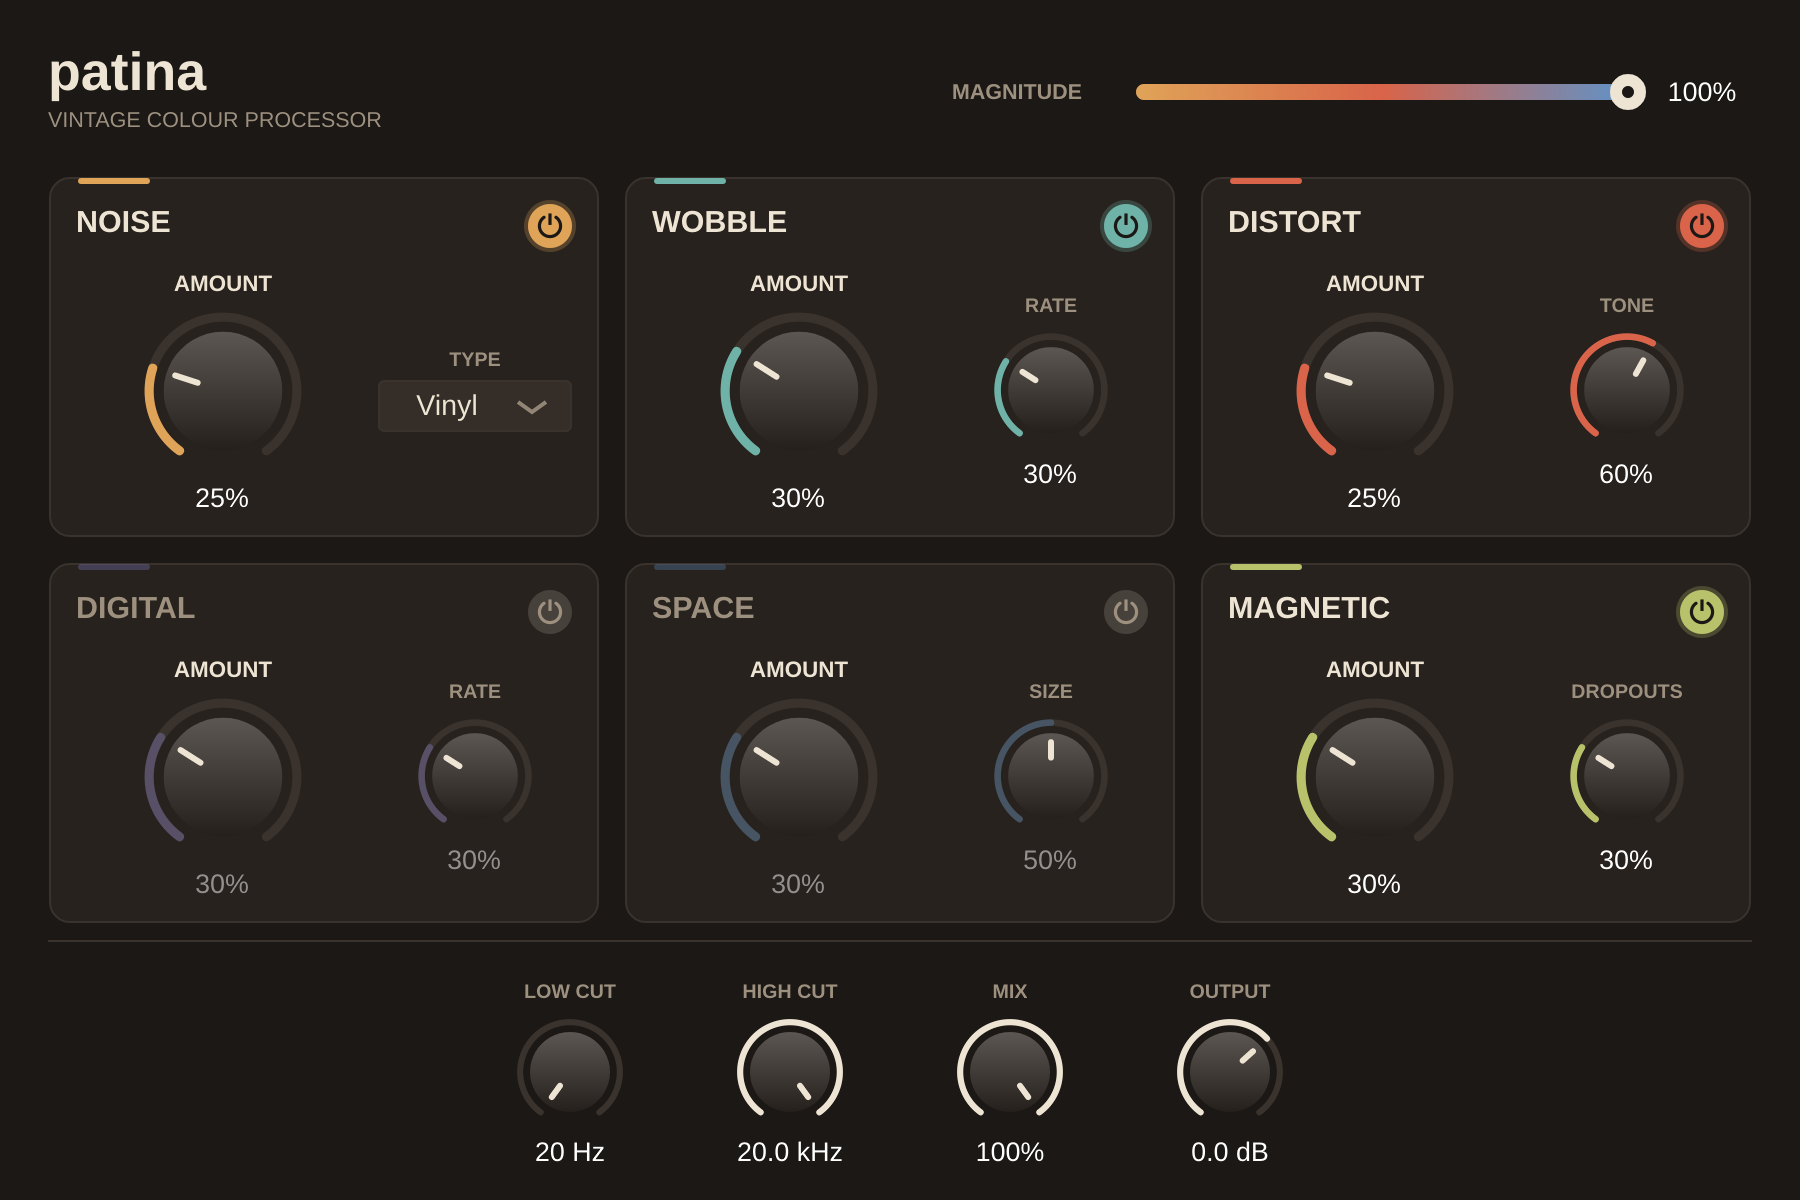
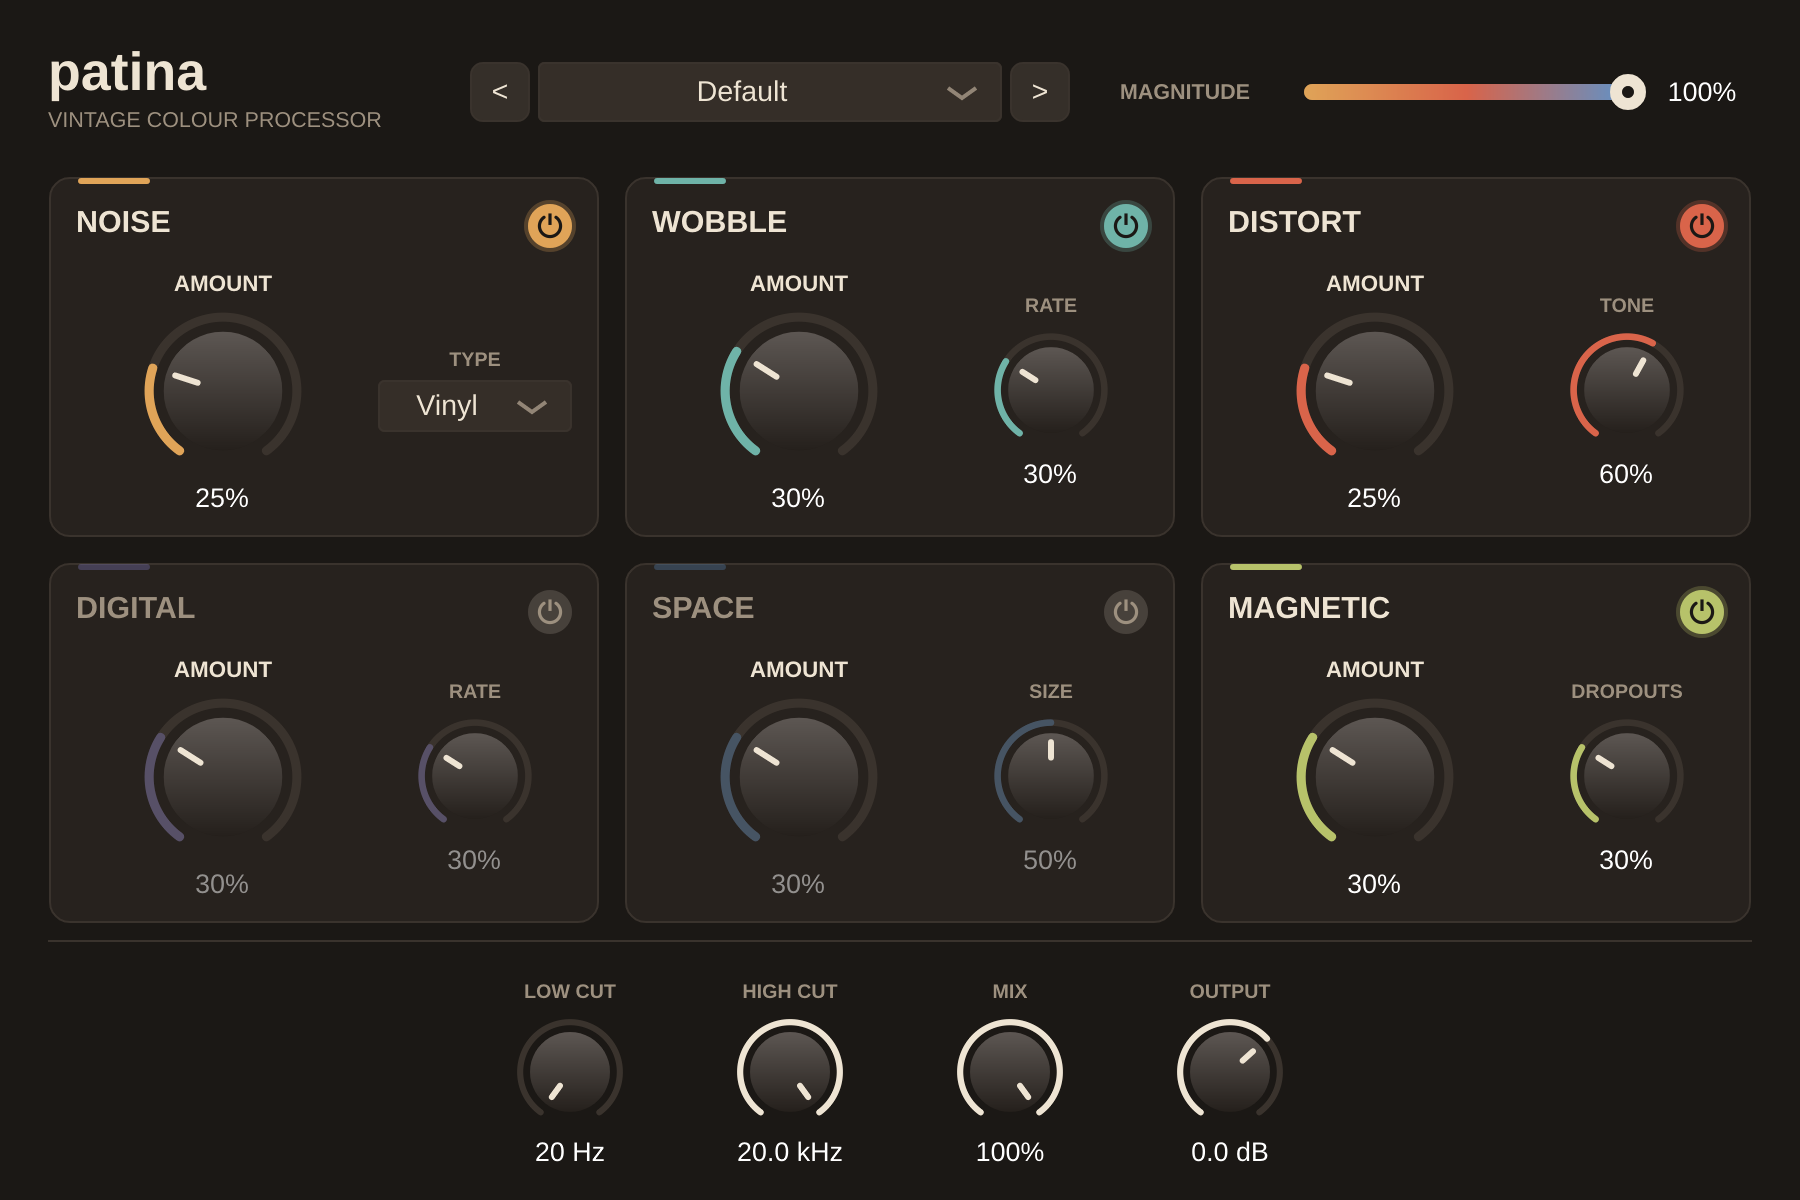
Add 30 level-matched factory presets with a preset browser
Presets are grouped into Basics, Tape, Vinyl, Digital, Radio, Ambient and
Grit, exposed to hosts as programs, and browsable from a new header combo
with prev/next buttons. The smoke test now renders every preset and checks
its loudness against the dry signal; output gains were set from that so all
presets sit within 0.2 dB of the input.

Claude-Session: https://claude.ai/code/session_01QYfq3nYLxLNsEYGTGBMD15

Changed region(s): [[0.2489, 0.0308, 0.8711, 0.1233]]

diff --git a/Source/Presets.h b/Source/Presets.h
@@ -1,0 +1,66 @@
+#pragma once
+
+// Factory presets. Each row is one complete snapshot of every parameter.
+// Noise type: 0 = Hiss, 1 = Vinyl, 2 = Hum. Amounts are 0..1, cuts in Hz, output in dB.
+// Output gains are level-matched to the dry signal (measured by Tests/SmokeTest.cpp).
+
+namespace patina
+{
+struct Stage { bool on; float amount; float extra; };
+
+struct Preset
+{
+    const char* name;
+    const char* category;
+    float magnitude;
+    bool noiseOn; float noiseAmt; int noiseType; float noiseTone;
+    Stage wobble;    // extra = rate
+    Stage distort;   // extra = tone
+    Stage digital;   // extra = rate
+    Stage space;     // extra = size
+    Stage magnetic;  // extra = dropouts
+    float lowCut, highCut, mix, outputDb;
+};
+
+constexpr bool on = true, off = false;
+constexpr int hiss = 0, vinyl = 1, hum = 2;
+
+// clang-format off
+inline const Preset factoryPresets[] =
+{
+//  name                    category     mag    noise                         wobble             distort            digital            space              magnetic           lowCut  highCut  mix   out
+    { "Default",            "Basics",    1.00f, on,  0.25f, vinyl, 0.50f, { on,  0.30f, 0.30f }, { on,  0.25f, 0.60f }, { off, 0.30f, 0.30f }, { off, 0.30f, 0.50f }, { on,  0.30f, 0.30f },   20.0f, 20000.0f, 1.00f,  -1.5f },
+    { "Subtle Color",       "Basics",    0.35f, on,  0.20f, hiss,  0.60f, { on,  0.20f, 0.30f }, { on,  0.30f, 0.70f }, { off, 0.00f, 0.00f }, { off, 0.00f, 0.50f }, { on,  0.40f, 0.10f },   20.0f, 20000.0f, 1.00f,  -0.5f },
+    { "Mix Bus Glow",       "Basics",    0.50f, on,  0.10f, hiss,  0.50f, { on,  0.08f, 0.30f }, { on,  0.20f, 0.75f }, { off, 0.00f, 0.00f }, { off, 0.00f, 0.50f }, { on,  0.35f, 0.00f },   20.0f, 20000.0f, 1.00f,  -1.0f },
+    { "Tape Glue",          "Tape",      1.00f, off, 0.00f, hiss,  0.50f, { on,  0.06f, 0.30f }, { on,  0.15f, 0.70f }, { off, 0.00f, 0.00f }, { off, 0.00f, 0.50f }, { on,  0.50f, 0.00f },   20.0f, 20000.0f, 1.00f,  -3.5f },
+    { "Warm Cassette",      "Tape",      1.00f, on,  0.30f, hiss,  0.55f, { on,  0.35f, 0.35f }, { on,  0.20f, 0.45f }, { off, 0.00f, 0.00f }, { off, 0.00f, 0.50f }, { on,  0.45f, 0.25f },   35.0f, 12000.0f, 1.00f,  -2.5f },
+    { "Worn Cassette",      "Tape",      1.00f, on,  0.45f, hiss,  0.45f, { on,  0.60f, 0.40f }, { on,  0.30f, 0.35f }, { off, 0.00f, 0.00f }, { off, 0.00f, 0.50f }, { on,  0.70f, 0.60f },   60.0f,  8000.0f, 1.00f,  -3.0f },
+    { "Broken Walkman",     "Tape",      1.00f, on,  0.50f, hiss,  0.40f, { on,  0.80f, 0.55f }, { on,  0.30f, 0.30f }, { off, 0.00f, 0.00f }, { off, 0.00f, 0.50f }, { on,  0.85f, 0.80f },   90.0f,  7000.0f, 1.00f,  -3.0f },
+    { "Lost VHS Tape",      "Tape",      1.00f, on,  0.40f, hiss,  0.35f, { on,  0.55f, 0.20f }, { on,  0.20f, 0.40f }, { off, 0.00f, 0.00f }, { off, 0.00f, 0.50f }, { on,  0.65f, 0.50f },   45.0f,  9000.0f, 1.00f,  -3.5f },
+    { "Dusty Crate",        "Vinyl",     1.00f, on,  0.35f, vinyl, 0.40f, { on,  0.20f, 0.20f }, { on,  0.20f, 0.50f }, { off, 0.00f, 0.00f }, { off, 0.00f, 0.50f }, { on,  0.20f, 0.15f },   40.0f, 11000.0f, 1.00f,  -1.0f },
+    { "Needle Drop",        "Vinyl",     1.00f, on,  0.50f, vinyl, 0.50f, { off, 0.00f, 0.30f }, { off, 0.00f, 0.50f }, { off, 0.00f, 0.00f }, { off, 0.00f, 0.50f }, { off, 0.00f, 0.00f },   20.0f, 20000.0f, 1.00f,  0.0f },
+    { "Old Gramophone",     "Vinyl",     1.00f, on,  0.70f, vinyl, 0.30f, { on,  0.30f, 0.15f }, { on,  0.25f, 0.30f }, { off, 0.00f, 0.00f }, { off, 0.00f, 0.50f }, { on,  0.30f, 0.20f },  250.0f,  5000.0f, 1.00f,  0.0f },
+    { "Lo-Fi Keys",         "Vinyl",     1.00f, on,  0.30f, vinyl, 0.45f, { on,  0.45f, 0.25f }, { on,  0.15f, 0.50f }, { off, 0.00f, 0.00f }, { on,  0.20f, 0.40f }, { on,  0.30f, 0.20f },   20.0f,  9000.0f, 1.00f,  -2.0f },
+    { "Memory Loop",        "Vinyl",     1.00f, on,  0.30f, vinyl, 0.40f, { on,  0.40f, 0.30f }, { on,  0.20f, 0.45f }, { on,  0.25f, 0.30f }, { on,  0.30f, 0.50f }, { on,  0.40f, 0.40f },   30.0f, 10000.0f, 1.00f,  -3.0f },
+    { "Boom Bap Drums",     "Digital",   1.00f, on,  0.20f, vinyl, 0.50f, { off, 0.00f, 0.30f }, { on,  0.45f, 0.50f }, { on,  0.35f, 0.25f }, { off, 0.00f, 0.50f }, { on,  0.20f, 0.10f },   30.0f, 14000.0f, 1.00f,  -1.0f },
+    { "12-Bit Sampler",     "Digital",   1.00f, off, 0.00f, hiss,  0.50f, { off, 0.00f, 0.30f }, { on,  0.15f, 0.55f }, { on,  0.33f, 0.35f }, { off, 0.00f, 0.50f }, { off, 0.00f, 0.00f },   20.0f, 15000.0f, 1.00f,  0.0f },
+    { "Handheld Chip",      "Digital",   1.00f, off, 0.00f, hiss,  0.50f, { off, 0.00f, 0.30f }, { on,  0.20f, 0.60f }, { on,  0.75f, 0.50f }, { off, 0.00f, 0.50f }, { off, 0.00f, 0.00f },  150.0f,  7000.0f, 1.00f,  0.0f },
+    { "Bit Mangler",        "Digital",   1.00f, off, 0.00f, hiss,  0.50f, { off, 0.00f, 0.30f }, { on,  0.50f, 0.70f }, { on,  0.85f, 0.70f }, { off, 0.00f, 0.50f }, { off, 0.00f, 0.00f },   20.0f, 20000.0f, 0.80f,  0.0f },
+    { "AM Radio",           "Radio",     1.00f, on,  0.25f, hiss,  0.30f, { off, 0.00f, 0.30f }, { on,  0.40f, 0.20f }, { off, 0.00f, 0.00f }, { off, 0.00f, 0.50f }, { on,  0.20f, 0.30f },  400.0f,  3500.0f, 1.00f,  4.0f },
+    { "Telephone Line",     "Radio",     1.00f, on,  0.20f, hiss,  0.30f, { off, 0.00f, 0.30f }, { on,  0.35f, 0.30f }, { on,  0.30f, 0.20f }, { off, 0.00f, 0.50f }, { off, 0.00f, 0.00f },  600.0f,  3000.0f, 1.00f,  8.5f },
+    { "Late Night Radio",   "Radio",     1.00f, on,  0.30f, hiss,  0.40f, { on,  0.20f, 0.30f }, { on,  0.30f, 0.35f }, { off, 0.00f, 0.00f }, { on,  0.20f, 0.40f }, { on,  0.25f, 0.30f },  150.0f,  6000.0f, 1.00f,  -1.5f },
+    { "Ground Loop",        "Radio",     1.00f, on,  0.35f, hum,   0.60f, { off, 0.00f, 0.30f }, { on,  0.30f, 0.45f }, { off, 0.00f, 0.00f }, { off, 0.00f, 0.50f }, { on,  0.20f, 0.20f },   20.0f, 20000.0f, 1.00f,  -1.5f },
+    { "Hazy Daydream",      "Ambient",   1.00f, on,  0.20f, hiss,  0.40f, { on,  0.45f, 0.20f }, { off, 0.00f, 0.50f }, { off, 0.00f, 0.00f }, { on,  0.55f, 0.70f }, { on,  0.30f, 0.20f },   20.0f,  7000.0f, 1.00f,  -5.5f },
+    { "Ghost Room",         "Ambient",   1.00f, on,  0.15f, hiss,  0.30f, { on,  0.30f, 0.20f }, { off, 0.00f, 0.50f }, { off, 0.00f, 0.00f }, { on,  0.80f, 0.90f }, { on,  0.20f, 0.30f },  120.0f,  6000.0f, 1.00f,  -8.5f },
+    { "Underwater",         "Ambient",   1.00f, off, 0.00f, hiss,  0.50f, { on,  0.50f, 0.15f }, { off, 0.00f, 0.50f }, { off, 0.00f, 0.00f }, { on,  0.40f, 0.60f }, { off, 0.00f, 0.00f },   20.0f,  1200.0f, 1.00f,  -2.0f },
+    { "Seasick",            "Ambient",   1.00f, off, 0.00f, hiss,  0.50f, { on,  0.90f, 0.10f }, { off, 0.00f, 0.50f }, { off, 0.00f, 0.00f }, { on,  0.20f, 0.50f }, { on,  0.20f, 0.20f },   20.0f, 20000.0f, 1.00f,  -1.5f },
+    { "Flutter Chorus",     "Ambient",   1.00f, off, 0.00f, hiss,  0.50f, { on,  0.50f, 0.85f }, { off, 0.00f, 0.50f }, { off, 0.00f, 0.00f }, { on,  0.15f, 0.40f }, { off, 0.00f, 0.00f },   20.0f, 20000.0f, 0.50f,  3.0f },
+    { "Basement Show",      "Grit",      1.00f, on,  0.20f, hiss,  0.50f, { off, 0.00f, 0.30f }, { on,  0.55f, 0.45f }, { off, 0.00f, 0.00f }, { on,  0.35f, 0.30f }, { off, 0.00f, 0.00f },   80.0f,  9000.0f, 1.00f,  -1.0f },
+    { "Blown Speaker",      "Grit",      1.00f, off, 0.00f, hiss,  0.50f, { off, 0.00f, 0.30f }, { on,  0.85f, 0.30f }, { off, 0.00f, 0.00f }, { off, 0.00f, 0.50f }, { off, 0.00f, 0.00f },  200.0f,  6000.0f, 1.00f,  4.5f },
+    { "Fuzz Box",           "Grit",      1.00f, off, 0.00f, hiss,  0.50f, { off, 0.00f, 0.30f }, { on,  1.00f, 0.55f }, { on,  0.20f, 0.20f }, { off, 0.00f, 0.50f }, { off, 0.00f, 0.00f },   20.0f, 20000.0f, 0.85f,  5.5f },
+    { "Total Decay",        "Grit",      1.00f, on,  0.60f, hiss,  0.45f, { on,  0.75f, 0.45f }, { on,  0.60f, 0.40f }, { on,  0.60f, 0.60f }, { on,  0.50f, 0.70f }, { on,  0.90f, 0.90f },  100.0f,  6000.0f, 1.00f,  -4.0f },
+};
+// clang-format on
+
+inline constexpr int numFactoryPresets = (int) (sizeof (factoryPresets) / sizeof (factoryPresets[0]));
+} // namespace patina

diff --git a/Source/PluginEditor.cpp b/Source/PluginEditor.cpp
@@ -268,12 +268,59 @@ PatinaEditor::PatinaEditor (PatinaProcessor& p)
                                                              &lowCut, &highCut, &mix, &output })
         addAndMakeVisible (c);
 
+    // preset browser, grouped by category
+    juce::String lastCategory;
+    for (int i = 0; i < patina::numFactoryPresets; ++i)
+    {
+        const auto& preset = patina::factoryPresets[i];
+        if (lastCategory != preset.category)
+        {
+            if (i > 0) presetBox.addSeparator();
+            presetBox.addSectionHeading (preset.category);
+            lastCategory = preset.category;
+        }
+        presetBox.addItem (preset.name, i + 1);
+    }
+    presetBox.setTextWhenNothingSelected ("Presets");
+    presetBox.setJustificationType (juce::Justification::centred);
+    presetBox.onChange = [this]
+    {
+        const int idx = presetBox.getSelectedId() - 1;
+        if (idx >= 0 && idx != processor.getCurrentProgram())
+            processor.setCurrentProgram (idx);
+    };
+    addAndMakeVisible (presetBox);
+
+    auto step = [this] (int delta)
+    {
+        const int n = patina::numFactoryPresets;
+        processor.setCurrentProgram ((processor.getCurrentProgram() + delta + n) % n);
+        syncPresetBox();
+    };
+    prevPreset.onClick = [step] { step (-1); };
+    nextPreset.onClick = [step] { step (+1); };
+    for (auto* b : { &prevPreset, &nextPreset })
+    {
+        b->setColour (juce::TextButton::buttonColourId, Palette::knobBody);
+        b->setColour (juce::TextButton::textColourOffId, Palette::text);
+        b->setColour (juce::ComboBox::outlineColourId, Palette::panelEdge);
+        addAndMakeVisible (b);
+    }
+    processor.onPresetChanged = [this] { syncPresetBox(); };
+    syncPresetBox();
+
     setSize (900, 600);
 }
 
 PatinaEditor::~PatinaEditor()
 {
+    processor.onPresetChanged = nullptr;
     setLookAndFeel (nullptr);
+}
+
+void PatinaEditor::syncPresetBox()
+{
+    presetBox.setSelectedId (processor.getCurrentProgram() + 1, juce::dontSendNotification);
 }
 
 void PatinaEditor::paint (juce::Graphics& g)
@@ -297,8 +344,13 @@ void PatinaEditor::resized()
     auto r = getLocalBounds().reduced (24, 16);
 
     auto header = r.removeFromTop (60);
-    auto mag = header.removeFromRight (420).withSizeKeepingCentre (420, 30);
-    magnitudeCaption.setBounds (mag.removeFromLeft (90));
+    auto mag = header.removeFromRight (330).withSizeKeepingCentre (330, 30);
+    header.removeFromLeft (200);
+    auto presets = header.withSizeKeepingCentre (juce::jmin (300, header.getWidth() - 20), 30);
+    prevPreset.setBounds (presets.removeFromLeft (30));
+    nextPreset.setBounds (presets.removeFromRight (30));
+    presetBox.setBounds (presets.reduced (4, 0));
+    magnitudeCaption.setBounds (mag.removeFromLeft (84));
     magnitude.setBounds (mag.withTrimmedLeft (10));
 
     r.removeFromTop (12);

diff --git a/Source/PluginProcessor.cpp b/Source/PluginProcessor.cpp
@@ -225,6 +225,59 @@ void PatinaProcessor::processChunk (juce::AudioBuffer<float>& chunk)
     }
 }
 
+const juce::String PatinaProcessor::getProgramName (int index)
+{
+    return juce::isPositiveAndBelow (index, patina::numFactoryPresets) ? patina::factoryPresets[index].name
+                                                                        : juce::String();
+}
+
+void PatinaProcessor::loadPreset (int index)
+{
+    if (! juce::isPositiveAndBelow (index, patina::numFactoryPresets))
+        return;
+
+    const auto& p = patina::factoryPresets[index];
+    auto set = [this] (const char* id, float value)
+    {
+        auto* param = apvts.getParameter (id);
+        param->beginChangeGesture();
+        param->setValueNotifyingHost (param->convertTo0to1 (value));
+        param->endChangeGesture();
+    };
+    auto stage = [&] (const char* onId, const char* amtId, const char* extraId, const patina::Stage& s)
+    {
+        set (onId, s.on ? 1.0f : 0.0f);
+        set (amtId, s.amount);
+        set (extraId, s.extra);
+    };
+
+    set (ParamID::magnitude, p.magnitude);
+    set (ParamID::noiseOn, p.noiseOn ? 1.0f : 0.0f);
+    set (ParamID::noiseAmt, p.noiseAmt);
+    set (ParamID::noiseType, (float) p.noiseType);
+    set (ParamID::noiseTone, p.noiseTone);
+    stage (ParamID::wobbleOn,   ParamID::wobbleAmt,   ParamID::wobbleRate,   p.wobble);
+    stage (ParamID::distortOn,  ParamID::distortAmt,  ParamID::distortTone,  p.distort);
+    stage (ParamID::digitalOn,  ParamID::digitalAmt,  ParamID::digitalRate,  p.digital);
+    stage (ParamID::spaceOn,    ParamID::spaceAmt,    ParamID::spaceSize,    p.space);
+    stage (ParamID::magneticOn, ParamID::magneticAmt, ParamID::magneticDrop, p.magnetic);
+    set (ParamID::lowCut, p.lowCut);
+    set (ParamID::highCut, p.highCut);
+    set (ParamID::mix, p.mix);
+    set (ParamID::output, p.outputDb);
+
+    currentPreset = index;
+    apvts.state.setProperty ("preset", index, nullptr);
+    updateHostDisplay (ChangeDetails().withProgramChanged (true));
+
+    if (onPresetChanged)
+        juce::MessageManager::callAsync ([safe = juce::WeakReference<PatinaProcessor> (this)]
+        {
+            if (safe != nullptr && safe->onPresetChanged)
+                safe->onPresetChanged();
+        });
+}
+
 juce::AudioProcessorEditor* PatinaProcessor::createEditor()
 {
     return new PatinaEditor (*this);
@@ -240,7 +293,10 @@ void PatinaProcessor::setStateInformation (const void* data, int sizeInBytes)
 {
     if (auto xml = getXmlFromBinary (data, sizeInBytes))
         if (xml->hasTagName (apvts.state.getType()))
+        {
             apvts.replaceState (juce::ValueTree::fromXml (*xml));
+            currentPreset = juce::jlimit (0, patina::numFactoryPresets - 1, (int) apvts.state.getProperty ("preset", 0));
+        }
 }
 
 juce::AudioProcessor* JUCE_CALLTYPE createPluginFilter()

diff --git a/Tests/SmokeTest.cpp b/Tests/SmokeTest.cpp
@@ -105,6 +105,43 @@ int main (int argc, char** argv)
         }
     }
 
+    {   // every factory preset: sanity + loudness relative to dry (for level matching)
+        double drySq = 0.0;
+        for (int i = 0; i < len; ++i) drySq += (double) input.getSample (0, i) * input.getSample (0, i);
+        const float dryRms = (float) std::sqrt (drySq / len);
+        for (int idx = 0; idx < patina::numFactoryPresets; ++idx)
+        {
+            PatinaProcessor p;
+            p.setPlayConfigDetails (2, 2, sr, 512);
+            p.setCurrentProgram (idx);
+            p.prepareToPlay (sr, 512);
+            auto io = input;
+            juce::MidiBuffer midi;
+            for (int start = 0; start < len; start += 512)
+            {
+                juce::AudioBuffer<float> block (io.getArrayOfWritePointers(), 2, start, juce::jmin (512, len - start));
+                p.processBlock (block, midi);
+            }
+            double sq = 0.0; float peak = 0.0f; bool finite = true;
+            for (int ch = 0; ch < 2; ++ch)
+                for (int i = 0; i < len; ++i)
+                {
+                    const float v = io.getSample (ch, i);
+                    finite &= std::isfinite (v);
+                    sq += (double) v * v; peak = juce::jmax (peak, std::abs (v));
+                }
+            const float rms = (float) std::sqrt (sq / (2.0 * len));
+            const float diff = juce::Decibels::gainToDecibels (rms) - juce::Decibels::gainToDecibels (dryRms);
+            std::cout << "preset " << juce::String (idx + 1).paddedLeft ('0', 2) << " "
+                      << p.getProgramName (idx).paddedRight (' ', 20) << " loudness vs dry "
+                      << juce::String (diff, 1).paddedLeft (' ', 6) << " dB, peak "
+                      << juce::String (juce::Decibels::gainToDecibels (peak), 1) << " dBFS\n";
+            if (! finite || peak > 4.0f) { std::cout << "FAIL preset " << idx << "\n"; ok = false; }
+            const auto name = p.getProgramName (idx).replaceCharacter (' ', '_').removeCharacters ("-");
+            writeWav (outDir.getChildFile ("presets").getChildFile (juce::String (idx + 1).paddedLeft ('0', 2) + "_" + name + ".wav"), io, sr);
+        }
+    }
+
     {   // Magnitude 0 + mix 1: should be a delayed copy of the input
         PatinaProcessor p;
         p.setPlayConfigDetails (2, 2, sr, 256);

diff --git a/Source/PluginProcessor.h b/Source/PluginProcessor.h
@@ -3,6 +3,7 @@
 #include <juce_audio_processors/juce_audio_processors.h>
 #include <juce_dsp/juce_dsp.h>
 #include "DSP/Modules.h"
+#include "Presets.h"
 
 namespace ParamID
 {
@@ -53,14 +54,17 @@ public:
     bool isMidiEffect() const override { return false; }
     double getTailLengthSeconds() const override { return 3.0; }
 
-    int getNumPrograms() override { return 1; }
-    int getCurrentProgram() override { return 0; }
-    void setCurrentProgram (int) override {}
-    const juce::String getProgramName (int) override { return {}; }
+    int getNumPrograms() override { return patina::numFactoryPresets; }
+    int getCurrentProgram() override { return currentPreset; }
+    void setCurrentProgram (int index) override { loadPreset (index); }
+    const juce::String getProgramName (int index) override;
     void changeProgramName (int, const juce::String&) override {}
 
     void getStateInformation (juce::MemoryBlock& destData) override;
     void setStateInformation (const void* data, int sizeInBytes) override;
+
+    void loadPreset (int index);
+    std::function<void()> onPresetChanged; // called on the message thread
 
     static juce::AudioProcessorValueTreeState::ParameterLayout createLayout();
     juce::AudioProcessorValueTreeState apvts;
@@ -85,6 +89,8 @@ private:
     juce::dsp::DelayLine<float, juce::dsp::DelayLineInterpolationTypes::None> dryDelay { 8192 };
     juce::AudioBuffer<float> dryBuffer;
     float currentMagnitude = 1.0f;
+    int currentPreset = 0;
 
+    JUCE_DECLARE_WEAK_REFERENCEABLE (PatinaProcessor)
     JUCE_DECLARE_NON_COPYABLE_WITH_LEAK_DETECTOR (PatinaProcessor)
 };

diff --git a/Source/PluginEditor.h b/Source/PluginEditor.h
@@ -62,6 +62,10 @@ private:
     PatinaLookAndFeel lnf;
     PatinaProcessor& processor;
 
+    juce::ComboBox presetBox;
+    juce::TextButton prevPreset { "<" }, nextPreset { ">" };
+    void syncPresetBox();
+
     juce::Slider magnitude;
     juce::Label magnitudeCaption;
     juce::AudioProcessorValueTreeState::SliderAttachment magnitudeAttachment;

diff --git a/README.md b/README.md
@@ -22,6 +22,26 @@ Signal flow: `Wobble -> Magnetic -> Distort -> Digital -> Low/High Cut -> Space 
 The plugin reports 6 ms of latency (the wobble delay's centre point) so your DAW
 keeps it in time, and the dry path is delayed to match so the Mix knob never combs.
 
+## Presets
+
+30 factory presets, browsable from the header (or your DAW's program list).
+Each one is level-matched to the dry signal (within 0.2 dB), so A/B comparisons
+are honest instead of "louder sounds better".
+
+| Category | Presets |
+|---|---|
+| Basics | Default, Subtle Color, Mix Bus Glow |
+| Tape | Tape Glue, Warm Cassette, Worn Cassette, Broken Walkman, Lost VHS Tape |
+| Vinyl | Dusty Crate, Needle Drop, Old Gramophone, Lo-Fi Keys, Memory Loop |
+| Digital | Boom Bap Drums, 12-Bit Sampler, Handheld Chip, Bit Mangler |
+| Radio | AM Radio, Telephone Line, Late Night Radio, Ground Loop |
+| Ambient | Hazy Daydream, Ghost Room, Underwater, Seasick, Flutter Chorus |
+| Grit | Basement Show, Blown Speaker, Fuzz Box, Total Decay |
+
+Tips: **Subtle Color**, **Mix Bus Glow** and **Tape Glue** are built for busses
+and full mixes. Pull Magnitude down on any heavy preset to dial it back in proportion.
+Presets live in `Source/Presets.h`.
+
 ## Getting a build
 
 **Easiest:** every push runs GitHub Actions (`.github/workflows/build.yml`) on
@@ -56,13 +76,13 @@ cmake --build build --target PatinaSmokeTest
 ./build/PatinaSmokeTest_artefacts/Release/PatinaSmokeTest /some/output/dir
 ```
 
-It runs every stage with odd block sizes, checks for NaNs / runaway levels, confirms
+It runs every stage with odd block sizes, renders and loudness-checks all 30 presets, checks for NaNs / runaway levels, confirms
 Magnitude 0 is a bit-exact delayed copy of the input, writes before/after WAVs, and
 renders a screenshot of the UI.
 
 ## Ideas for next steps
 
 - 2x oversampling around Distort to cut aliasing at high drive
-- Presets / A-B compare
+- User preset saving / A-B compare
 - Per-stage "flux" (random modulation of each stage's amount)
 - Stereo wobble spread
